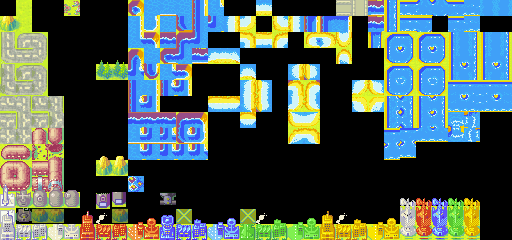
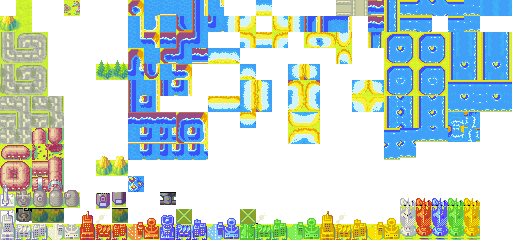
Map

diff --git a/AdvanceWars/src/levels/TestLevel.java b/AdvanceWars/src/levels/TestLevel.java
@@ -1,13 +1,12 @@
 package levels;
 
-import entity.*;
 import entity.Cursor;
+import entity.*;
 import gameframework.core.*;
 import gameframework.moves_rules.*;
-import util.ImageUtility;
 
 import java.awt.*;
-import java.io.File;
+import java.util.ArrayList;
 
 /**
  * Created by alan on 15/01/17.
@@ -17,42 +16,60 @@ public class TestLevel extends GameLevelDefaultImpl{
     public static final int SPRITE_SIZE = 16;
     public static final int SIZE_X_WINDOW = 31;
     public static final int SIZE_Y_WINDOW = 28;
+
     Canvas canvas;
 
-    // 0 : Pacgums; 1 : Walls; 2 : SuperPacgums; 3 : Doors; 4 : Jail; 5 : empty
-    // Note: teleportation points are not indicated since they are defined by
-    // directed pairs of positions.
+    // Land : 0
+    // Tree : 1
+    // Mountain : 2
+    // Road Vertical : 3
+    // Road Horizontal : 4
+    // Road Left Bottom : 5
+    // Road Left Up : 6
+    // Road Right Bottom : 7
+    // Road Right Up : 8
+    // Bridge : 9
+
+    // Water B: 10
+    // Water U: 11
+    // Water LB: 12
+    // Water LU: 13
+    // Water RB: 14
+    // Water RU: 15
+    // Water Right: 16
+    // Water Left : 17
+    // Water : 18
     static int[][] tab = {
-            { 1, 1, 1, 1, 1, 1, 1, 1, 1, 1, 1, 1, 1, 1, 1, 1, 1, 1, 1, 1, 1, 1, 1, 1, 1, 1, 1, 1 },
-            { 1, 0, 0, 0, 0, 0, 0, 0, 0, 0, 0, 0, 0, 1, 1, 0, 0, 0, 0, 0, 0, 0, 0, 0, 0, 0, 0, 1 },
-            { 1, 2, 1, 1, 1, 1, 0, 1, 1, 1, 1, 1, 0, 1, 1, 0, 1, 1, 1, 1, 1, 0, 1, 1, 1, 1, 2, 1 },
-            { 1, 0, 1, 1, 1, 1, 0, 1, 1, 1, 1, 1, 0, 1, 1, 0, 1, 1, 1, 1, 1, 0, 1, 1, 1, 1, 0, 1 },
-            { 1, 0, 1, 1, 1, 1, 0, 1, 1, 1, 1, 1, 0, 1, 1, 0, 1, 1, 1, 1, 1, 0, 1, 1, 1, 1, 0, 1 },
-            { 1, 0, 0, 0, 0, 0, 0, 0, 0, 0, 0, 0, 0, 0, 0, 0, 0, 0, 0, 0, 0, 0, 0, 0, 0, 0, 0, 1 },
-            { 1, 0, 1, 1, 1, 1, 0, 1, 1, 0, 1, 1, 1, 1, 1, 1, 1, 1, 0, 1, 1, 0, 1, 1, 1, 1, 0, 1 },
-            { 1, 0, 1, 1, 1, 1, 0, 1, 1, 0, 1, 1, 1, 1, 1, 1, 1, 1, 0, 1, 1, 0, 1, 1, 1, 1, 0, 1 },
-            { 1, 0, 0, 0, 0, 0, 0, 1, 1, 0, 0, 0, 0, 1, 1, 0, 0, 0, 0, 1, 1, 0, 0, 0, 0, 0, 0, 1 },
-            { 1, 1, 1, 1, 1, 1, 0, 1, 1, 1, 1, 1, 5, 1, 1, 5, 1, 1, 1, 1, 1, 0, 1, 1, 1, 1, 1, 1 },
-            { 1, 1, 1, 1, 1, 1, 0, 1, 1, 1, 1, 1, 5, 1, 1, 5, 1, 1, 1, 1, 1, 0, 1, 1, 1, 1, 1, 1 },
-            { 1, 1, 1, 1, 1, 1, 0, 1, 1, 5, 5, 5, 5, 5, 5, 5, 5, 5, 5, 1, 1, 0, 1, 1, 1, 1, 1, 1 },
-            { 1, 1, 1, 1, 1, 1, 0, 1, 1, 5, 1, 1, 1, 3, 3, 1, 1, 1, 5, 1, 1, 0, 1, 1, 1, 1, 1, 1 },
-            { 1, 1, 1, 1, 1, 1, 0, 1, 1, 5, 1, 4, 4, 4, 4, 4, 4, 1, 5, 1, 1, 0, 1, 1, 1, 1, 1, 1 },
-            { 5, 5, 5, 5, 5, 5, 0, 5, 5, 5, 1, 4, 4, 4, 4, 4, 4, 1, 5, 5, 5, 0, 5, 5, 5, 5, 5, 5 },
-            { 1, 1, 1, 1, 1, 1, 0, 1, 1, 5, 1, 4, 4, 4, 4, 4, 4, 1, 5, 1, 1, 0, 1, 1, 1, 1, 1, 1 },
-            { 1, 1, 1, 1, 1, 1, 0, 1, 1, 5, 1, 1, 1, 1, 1, 1, 1, 1, 5, 1, 1, 0, 1, 1, 1, 1, 1, 1 },
-            { 1, 1, 1, 1, 1, 1, 0, 1, 1, 5, 5, 5, 5, 5, 5, 5, 5, 5, 5, 1, 1, 0, 1, 1, 1, 1, 1, 1 },
-            { 1, 1, 1, 1, 1, 1, 0, 1, 1, 5, 1, 1, 1, 1, 1, 1, 1, 1, 5, 1, 1, 0, 1, 1, 1, 1, 1, 1 },
-            { 1, 1, 1, 1, 1, 1, 0, 1, 1, 5, 1, 1, 1, 1, 1, 1, 1, 1, 5, 1, 1, 0, 1, 1, 1, 1, 1, 1 },
-            { 1, 0, 0, 0, 0, 0, 0, 0, 0, 0, 0, 0, 0, 1, 1, 0, 0, 0, 0, 0, 0, 0, 0, 0, 0, 0, 0, 1 },
-            { 1, 0, 1, 1, 1, 1, 0, 1, 1, 1, 1, 1, 0, 1, 1, 0, 1, 1, 1, 1, 1, 0, 1, 1, 1, 1, 0, 1 },
-            { 1, 0, 1, 1, 1, 1, 0, 1, 1, 1, 1, 1, 0, 1, 1, 0, 1, 1, 1, 1, 1, 0, 1, 1, 1, 1, 0, 1 },
-            { 1, 2, 0, 0, 1, 1, 0, 0, 0, 0, 0, 0, 0, 0, 0, 0, 0, 0, 0, 0, 0, 0, 1, 1, 0, 0, 2, 1 },
-            { 1, 1, 1, 0, 1, 1, 0, 1, 1, 0, 1, 1, 1, 1, 1, 1, 1, 1, 0, 1, 1, 0, 1, 1, 0, 1, 1, 1 },
+            { 1, 1, 1, 1, 1, 0, 0, 0, 1, 0, 1, 1, 0, 1, 0, 0, 1, 1, 1, 1, 1, 1, 1, 0, 0, 0, 0, 0 },
+            { 1, 1, 1, 1, 1, 2, 2, 2, 2, 2, 0, 2, 2, 2, 2, 2, 1, 1, 1, 0, 0, 0, 0, 0, 0, 0, 0, 1 },
+            { 2, 2, 0, 1, 1, 1, 1, 1, 2, 2, 2, 2, 2, 1, 1, 1, 1, 1, 1, 2, 2, 0, 1, 1, 1, 1, 2, 1 },
+            { 2, 2, 2, 0, 0, 1, 2, 2, 2, 2, 2, 2, 2, 2, 2, 1, 1, 0, 2, 2, 2, 0, 1, 1, 1, 1, 0, 1 },
+            { 2, 2, 2, 2, 0, 0, 1, 1, 2, 2, 2, 2, 2, 1, 1, 1, 0, 2, 2, 2, 2, 0, 1, 1, 1, 1, 0, 1 },
+            { 2, 2, 2, 2, 2, 2, 0, 1, 1, 1, 3, 1, 1, 1, 0, 2, 2, 2, 2, 2,13,11,11,11,11,11,15, 1 },
+            { 0, 0, 2, 2, 2, 2, 2, 2, 0, 0, 3, 1, 0, 2, 2, 0, 2, 2, 2, 1,17,18,18,18,18,18,16, 1 },
+            { 0, 0, 0, 2, 2, 2, 0, 2, 2, 0, 3, 0, 2, 2, 1, 0, 0, 0, 1, 1,17,18,18,18,18,18,16, 1 },
+            { 0, 6, 4, 4, 4, 4, 4, 4, 8, 1, 3, 1, 6, 4, 4, 4, 4, 4, 4, 8,17,18,18,18,18,18,16, 1 },
+            { 20,9,20,20,20,20,20,20, 9,20, 9,20, 9,20,20,20,20,20,20, 9,19,10,10,10,10,10,14, 1 },
+            { 0, 0, 2, 2, 0, 0, 1, 0, 0, 0, 0, 1, 0, 0, 0, 0, 2, 0, 0, 0, 1, 0, 1, 1, 1, 1, 1, 1 },
+            { 0, 0, 0, 2, 2, 0, 1, 0, 0, 2, 2, 2, 1, 1, 0, 2, 2, 2, 1, 0, 1, 0, 1, 1, 1, 1, 1, 1 },
+            { 0, 0, 1, 2, 2, 1, 1, 0, 1, 0, 0, 1, 1, 1, 2, 2, 2, 0, 0, 1, 0, 0, 1, 1, 1, 1, 1, 1 },
+            { 1, 0, 0, 0, 2, 2, 1, 1, 0, 1, 0, 0, 0, 1, 1, 1, 1, 1, 0, 0, 1, 0, 1, 1, 1, 1, 1, 1 },
+            { 0, 0, 1, 0, 0, 2, 2, 1, 1, 1, 6, 4, 4, 4, 4, 4, 4, 4, 8, 0, 1, 6, 4, 4, 4, 4, 4, 4 },
+            { 1, 0, 3, 1, 1, 2, 1, 1, 1, 0, 3, 2, 1, 1, 0, 2, 0, 0, 3, 0, 1, 3, 1, 1, 1, 1, 1, 1 },
+            { 1, 0, 3, 1, 2, 2, 1, 1, 1, 0, 3, 1, 1, 1, 2, 2, 2, 1, 3, 0, 1, 3, 1, 1, 1, 1, 1, 1 },
+            { 1, 1, 3, 0, 0, 2, 2, 0, 2, 0, 3, 0, 0, 0, 0, 2, 2, 2, 3, 0, 0, 3, 1, 1, 1, 1, 1, 1 },
+            { 0, 0, 3, 1, 0, 0, 2, 1, 1, 1, 3, 1, 1, 0, 2, 2, 1, 0, 3, 1, 0, 3, 1, 1, 1, 1, 1, 1 },
+            { 1, 0, 3, 0, 0, 0, 2, 2, 1, 0, 3, 0, 1, 0, 2, 2, 0, 0, 3, 1, 0, 3, 1, 1, 1, 1, 1, 1 },
+            { 1, 0, 3, 0, 0, 0, 0, 2, 1, 1, 3, 1, 1, 2, 2, 1, 0, 0, 3, 0, 0, 3, 0, 0, 0, 0, 0, 1 },
+            { 1, 0, 3, 0, 0, 0, 2, 2, 1, 0, 3, 1, 1, 2, 2, 0, 0, 0, 3, 0, 1, 3, 1, 1, 1, 1, 0, 1 },
+            { 0, 0, 3, 0, 0, 2, 2, 0, 1, 0, 3, 0, 2, 2, 2, 1, 0, 0, 3, 0, 0, 3, 1, 1, 1, 1, 0, 1 },
+            { 4, 4, 4, 4, 4, 4, 4, 4, 4, 4, 7, 0, 2, 2, 1, 1, 0, 0, 5, 4, 4, 7, 1, 1, 0, 0, 2, 1 },
+            { 2, 2, 0, 2, 2, 0, 0, 1, 1, 0, 2, 2, 2, 2, 1, 1, 2, 2, 0, 2, 2, 0, 1, 1, 0, 1, 1, 1 },
             { 1, 1, 1, 0, 1, 1, 0, 1, 1, 0, 1, 1, 1, 1, 1, 1, 1, 1, 0, 1, 1, 0, 1, 1, 0, 1, 1, 1 },
             { 1, 0, 0, 0, 0, 0, 0, 1, 1, 0, 0, 0, 0, 1, 1, 0, 0, 0, 0, 1, 1, 0, 0, 0, 0, 0, 0, 1 },
             { 1, 0, 1, 1, 1, 1, 1, 1, 1, 1, 1, 1, 0, 1, 1, 0, 1, 1, 1, 1, 1, 1, 1, 1, 1, 1, 0, 1 },
             { 1, 0, 1, 1, 1, 1, 1, 1, 1, 1, 1, 1, 0, 1, 1, 0, 1, 1, 1, 1, 1, 1, 1, 1, 1, 1, 0, 1 },
-            { 1, 0, 0, 0, 0, 0, 0, 0, 0, 0, 0, 0, 0, 0, 0, 0, 0, 0, 0, 0, 0, 0, 0, 0, 0, 0, 0, 1 },
+            { 4, 4, 4, 4, 4, 4, 4, 4, 4, 4, 4, 4, 4, 4, 4, 4, 4, 4, 4, 4, 4, 4, 4, 4, 4, 4, 4, 4 },
             { 1, 1, 1, 1, 1, 1, 1, 1, 1, 1, 1, 1, 1, 1, 1, 1, 1, 1, 1, 1, 1, 1, 1, 1, 1, 1, 1, 1 } };
 
     public TestLevel(Game g) {
@@ -77,6 +94,7 @@ public class TestLevel extends GameLevelDefaultImpl{
 
         ((CanvasDefaultImpl) g.getCanvas()).setDrawingGameBoard(gameBoard);
 
+        ArrayList<GameEntity> over = new ArrayList<>();
         // Up side
         for(int x=0; x<tab[0].length;x++)
             universe.addGameEntity(new EmptyBlocker(x*SPRITE_SIZE,-SPRITE_SIZE));
@@ -90,25 +108,75 @@ public class TestLevel extends GameLevelDefaultImpl{
             int x;
             for(x=0; x<tab[y].length;x++)
             {
-
                 if (tab[y][x] == 0)
-                    universe.addGameEntity(new MapEntitySprite(canvas, x*SPRITE_SIZE, y*SPRITE_SIZE, MapEntitySprite.MapEntityType.Land));
+                    universe.addGameEntity(new MapEntitySprite(canvas,
+                            x*SPRITE_SIZE, y*SPRITE_SIZE, MapEntitySprite.MapEntityType.Land));
                 if (tab[y][x] == 1)
-                    universe.addGameEntity(new MapEntitySprite(canvas, x*SPRITE_SIZE, y*SPRITE_SIZE, MapEntitySprite.MapEntityType.Tree));
+                    universe.addGameEntity(new MapEntitySprite(canvas,
+                            x*SPRITE_SIZE, y*SPRITE_SIZE, MapEntitySprite.MapEntityType.Tree));
                 if (tab[y][x] == 2)
-                    universe.addGameEntity(new MapEntitySprite(canvas, x*SPRITE_SIZE, y*SPRITE_SIZE, MapEntitySprite.MapEntityType.RoadHorizontal));
+                    universe.addGameEntity(new MapEntitySprite(canvas,
+                            x*SPRITE_SIZE, y*SPRITE_SIZE, MapEntitySprite.MapEntityType.Mountain));
                 if (tab[y][x] == 3)
-                    universe.addGameEntity(new MapEntitySprite(canvas, x*SPRITE_SIZE, y*SPRITE_SIZE, MapEntitySprite.MapEntityType.RoadVertical));
+                    universe.addGameEntity(new MapEntitySprite(canvas,
+                            x*SPRITE_SIZE, y*SPRITE_SIZE, MapEntitySprite.MapEntityType.RoadVertical));
                 if (tab[y][x] == 4)
-                    universe.addGameEntity(new MapEntitySprite(canvas, x*SPRITE_SIZE, y*SPRITE_SIZE, MapEntitySprite.MapEntityType.RoadLeftBottom));
+                    universe.addGameEntity(new MapEntitySprite(canvas,
+                            x*SPRITE_SIZE, y*SPRITE_SIZE, MapEntitySprite.MapEntityType.RoadHorizontal));
                 if (tab[y][x] == 5)
-                    universe.addGameEntity(new MapEntitySprite(canvas, x*SPRITE_SIZE, y*SPRITE_SIZE, MapEntitySprite.MapEntityType.RoadLeftUp));
+                    universe.addGameEntity(new MapEntitySprite(canvas,
+                            x*SPRITE_SIZE, y*SPRITE_SIZE, MapEntitySprite.MapEntityType.RoadLeftBottom));
+                if (tab[y][x] == 6)
+                    universe.addGameEntity(new MapEntitySprite(canvas,
+                            x*SPRITE_SIZE, y*SPRITE_SIZE, MapEntitySprite.MapEntityType.RoadLeftUp));
+                if (tab[y][x] == 7)
+                    universe.addGameEntity(new MapEntitySprite(canvas,
+                            x*SPRITE_SIZE, y*SPRITE_SIZE, MapEntitySprite.MapEntityType.RoadRightBottom));
+                if (tab[y][x] == 8)
+                    universe.addGameEntity(new MapEntitySprite(canvas,
+                            x*SPRITE_SIZE, y*SPRITE_SIZE, MapEntitySprite.MapEntityType.RoadRightUp));
+                if (tab[y][x] == 9)
+                    universe.addGameEntity(new MapEntitySprite(canvas,
+                            x*SPRITE_SIZE, y*SPRITE_SIZE, MapEntitySprite.MapEntityType.BridgeH));
+                if (tab[y][x] == 10)
+                    universe.addGameEntity(new MapEntitySprite(canvas,
+                            x*SPRITE_SIZE, y*SPRITE_SIZE, MapEntitySprite.MapEntityType.WaterBottom));
+                if (tab[y][x] == 11)
+                    universe.addGameEntity(new MapEntitySprite(canvas,
+                            x*SPRITE_SIZE, y*SPRITE_SIZE, MapEntitySprite.MapEntityType.WaterUp));
+                if (tab[y][x] == 12)
+                    universe.addGameEntity(new MapEntitySprite(canvas,
+                            x*SPRITE_SIZE, y*SPRITE_SIZE, MapEntitySprite.MapEntityType.WaterLeftBottom));
+                if (tab[y][x] == 13)
+                    universe.addGameEntity(new MapEntitySprite(canvas,
+                            x*SPRITE_SIZE, y*SPRITE_SIZE, MapEntitySprite.MapEntityType.WaterLeftUp));
+                if (tab[y][x] == 14)
+                    universe.addGameEntity(new MapEntitySprite(canvas,
+                            x*SPRITE_SIZE, y*SPRITE_SIZE, MapEntitySprite.MapEntityType.WaterRightBottom));
+                if (tab[y][x] == 15)
+                    universe.addGameEntity(new MapEntitySprite(canvas,
+                            x*SPRITE_SIZE, y*SPRITE_SIZE, MapEntitySprite.MapEntityType.WaterRightUp));
+                if (tab[y][x] == 16)
+                    universe.addGameEntity(new MapEntitySprite(canvas,
+                            x*SPRITE_SIZE, y*SPRITE_SIZE, MapEntitySprite.MapEntityType.WaterRight));
+                if (tab[y][x] == 17)
+                    universe.addGameEntity(new MapEntitySprite(canvas,
+                            x*SPRITE_SIZE, y*SPRITE_SIZE, MapEntitySprite.MapEntityType.WaterLeft));
+                if (tab[y][x] == 18)
+                    universe.addGameEntity(new MapEntitySprite(canvas,
+                            x*SPRITE_SIZE, y*SPRITE_SIZE, MapEntitySprite.MapEntityType.Water));
+
+                if (tab[y][x] == 19)
+                    universe.addGameEntity(new MapEntitySprite(canvas,
+                            x*SPRITE_SIZE, y*SPRITE_SIZE, MapEntitySprite.MapEntityType.WaterOut));
+                if (tab[y][x] == 20)
+                    universe.addGameEntity(new MapEntitySprite(canvas,
+                            x*SPRITE_SIZE, y*SPRITE_SIZE, MapEntitySprite.MapEntityType.RiverH));
             }
 
             // Right side
             universe.addGameEntity(new EmptyBlocker(x*SPRITE_SIZE,y*SPRITE_SIZE));
         }
-
 
         // Bottom side
         for(int x=0; x<tab[0].length;x++)

diff --git a/AdvanceWars/src/entity/MapEntitySprite.java b/AdvanceWars/src/entity/MapEntitySprite.java
@@ -4,10 +4,9 @@ import gameframework.core.Drawable;
 import gameframework.core.DrawableImage;
 import gameframework.core.GameEntity;
 import gameframework.core.Overlappable;
-import gameframework.moves_rules.MoveBlocker;
+import util.ImageUtility;
 
 import java.awt.*;
-import java.util.Map;
 
 /**
  * Created by alaguitard on 17/01/17.
@@ -24,14 +23,30 @@ public class MapEntitySprite implements Drawable,GameEntity, Overlappable{
 	}
 
 	public enum MapEntityType{
+		Land(1,0),
 		Tree(6,4),
-		Land(0,1),
+		Mountain(6,10),
+
 		RoadVertical(0,2),
 		RoadHorizontal(1,3),
 		RoadLeftBottom(0,3),
 		RoadLeftUp(1,2),
+		RoadRightBottom(2,3),
 		RoadRightUp(2,2),
-		RoadRightBottom(2,3)
+		BridgeH(22,0),
+
+		WaterBottom(10,0),
+		WaterUp(10,2),
+		WaterLeftBottom(11,1),
+		WaterLeftUp(11,2),
+		WaterRightBottom(9,1),
+		WaterRightUp(9,2),
+		WaterRight(8,1),
+		WaterLeft(8,5),
+
+		Water(9,0),
+		WaterOut(9,8),
+		RiverH(12,3)
 		;
 
 		private final int x,y;
@@ -44,15 +59,24 @@ public class MapEntitySprite implements Drawable,GameEntity, Overlappable{
 
 	public MapEntitySprite(Canvas defaultCanvas, int xx, int yy, MapEntityType t) {
 		if(image == null)
-			image = new DrawableImage("map1.png", defaultCanvas);
+			image = new DrawableImage(ImageUtility.getResource("map1.png"), defaultCanvas);
 		x = xx;
 		y = yy;
 		this.type = t;
 	}
 
 	public void draw(Graphics g) {
-		g.drawImage(image.getImage(), x, y, x+RENDERING_SIZE, y+RENDERING_SIZE
-		, type.x*RENDERING_SIZE, type.y*RENDERING_SIZE, (type.x+1)*RENDERING_SIZE,(type.y+1)*RENDERING_SIZE, null);
+
+		if(this.type == MapEntityType.Mountain || this.type == MapEntityType.Tree)
+		{
+			g.drawImage(image.getImage(), x, y-3, x+RENDERING_SIZE , y+RENDERING_SIZE
+					, type.x*RENDERING_SIZE, type.y*RENDERING_SIZE-3,
+					(type.x+1)*RENDERING_SIZE,(type.y+1)*RENDERING_SIZE, null);
+		}
+		else
+			g.drawImage(image.getImage(), x, y, x+RENDERING_SIZE, y+RENDERING_SIZE
+				, type.x*RENDERING_SIZE, type.y*RENDERING_SIZE,
+				(type.x+1)*RENDERING_SIZE,(type.y+1)*RENDERING_SIZE, null);
 	}
 
 	public Point getPos() {

diff --git a/GameFrameworkBasicVersion/src/gameframework/core/DrawableImage.java b/GameFrameworkBasicVersion/src/gameframework/core/DrawableImage.java
@@ -1,13 +1,6 @@
 package gameframework.core;
 
-import util.ImageUtility;
-
-import java.awt.Canvas;
-import java.awt.Graphics;
-import java.awt.Image;
-import java.awt.MediaTracker;
-import java.awt.Toolkit;
-import java.io.File;
+import java.awt.*;
 
 public class DrawableImage implements Drawable {
 	protected Image image;
@@ -17,7 +10,7 @@ public class DrawableImage implements Drawable {
 		this.canvas = canvas;
 		Toolkit toolkit = Toolkit.getDefaultToolkit();
 		// Implement to work on intelij
-		image = toolkit.createImage(ImageUtility.getResource(filename));
+		image = toolkit.createImage(filename);
 		MediaTracker tracker = new MediaTracker(canvas);
 		tracker.addImage(image, 0);
 		try {

diff --git a/AdvanceWars/src/entity/SoldierEntity.java b/AdvanceWars/src/entity/SoldierEntity.java
@@ -4,6 +4,7 @@ import game.SpriteManagerSoldierImpl;
 import gameframework.core.*;
 import soldier.core.Unit;
 import soldier.units.UnitCenturion;
+import util.ImageUtility;
 
 import java.awt.*;
 
@@ -20,7 +21,7 @@ public class SoldierEntity extends GameMovable implements Drawable, GameEntity,
 
     public SoldierEntity(Canvas canvas)
     {
-        spriteManager = new SpriteManagerSoldierImpl("soldier2.png", canvas);
+        spriteManager = new SpriteManagerSoldierImpl(ImageUtility.getResource("soldier2.png"), canvas);
         unit = new UnitCenturion("Billy");
         spriteManager.setTypes(
                 //

diff --git a/AdvanceWars/src/entity/Cursor.java b/AdvanceWars/src/entity/Cursor.java
@@ -2,6 +2,7 @@ package entity;
 
 import gameframework.core.*;
 import gameframework.moves_rules.SpeedVectorDefaultImpl;
+import util.ImageUtility;
 
 import java.awt.*;
 
@@ -15,7 +16,7 @@ public class Cursor extends GameMovable implements Drawable, GameEntity,
 
     public Cursor(Canvas canvas)
     {
-        image = new DrawableImage("cursor.png", canvas);
+        image = new DrawableImage(ImageUtility.getResource("cursor.png"), canvas);
     }
 
     @Override

diff --git a/GameFrameworkBasicVersion/src/gameframework/core/GameUniverseViewPortDefaultImpl.java b/GameFrameworkBasicVersion/src/gameframework/core/GameUniverseViewPortDefaultImpl.java
@@ -21,7 +21,7 @@ public class GameUniverseViewPortDefaultImpl implements GameUniverseViewPort {
 	}
 
 	protected String backgroundImage() {
-		return "background_image.gif";
+		return "images/background_image.gif";
 	}
 
 	public void setBackground(String filename) {

diff --git a/GameFrameworkBasicVersion/src/gameframework/core/CanvasDefaultImpl.java b/GameFrameworkBasicVersion/src/gameframework/core/CanvasDefaultImpl.java
@@ -16,7 +16,8 @@ public class CanvasDefaultImpl extends Canvas {
 
 	@Override
 	public void paint(Graphics g) {
-		// Graphics gReal = getGraphics();
+		//Graphics gReal = getGraphics();
+
 		try {
 			drawingGameBoard.paint();
 		} catch (NullPointerException e) {
